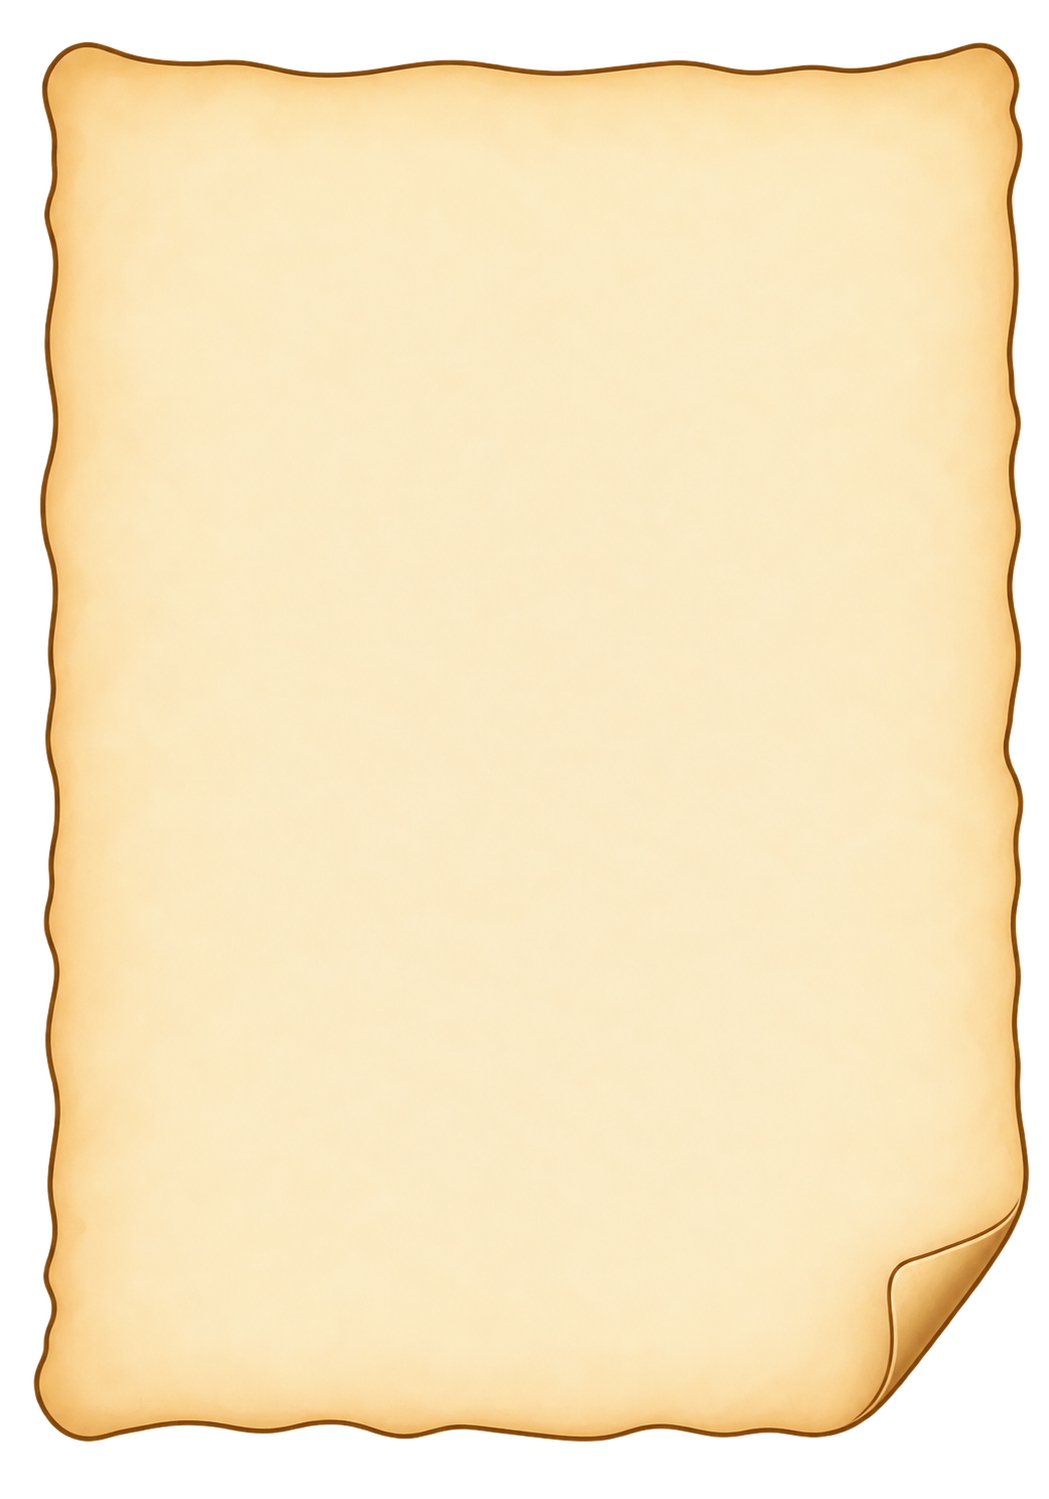
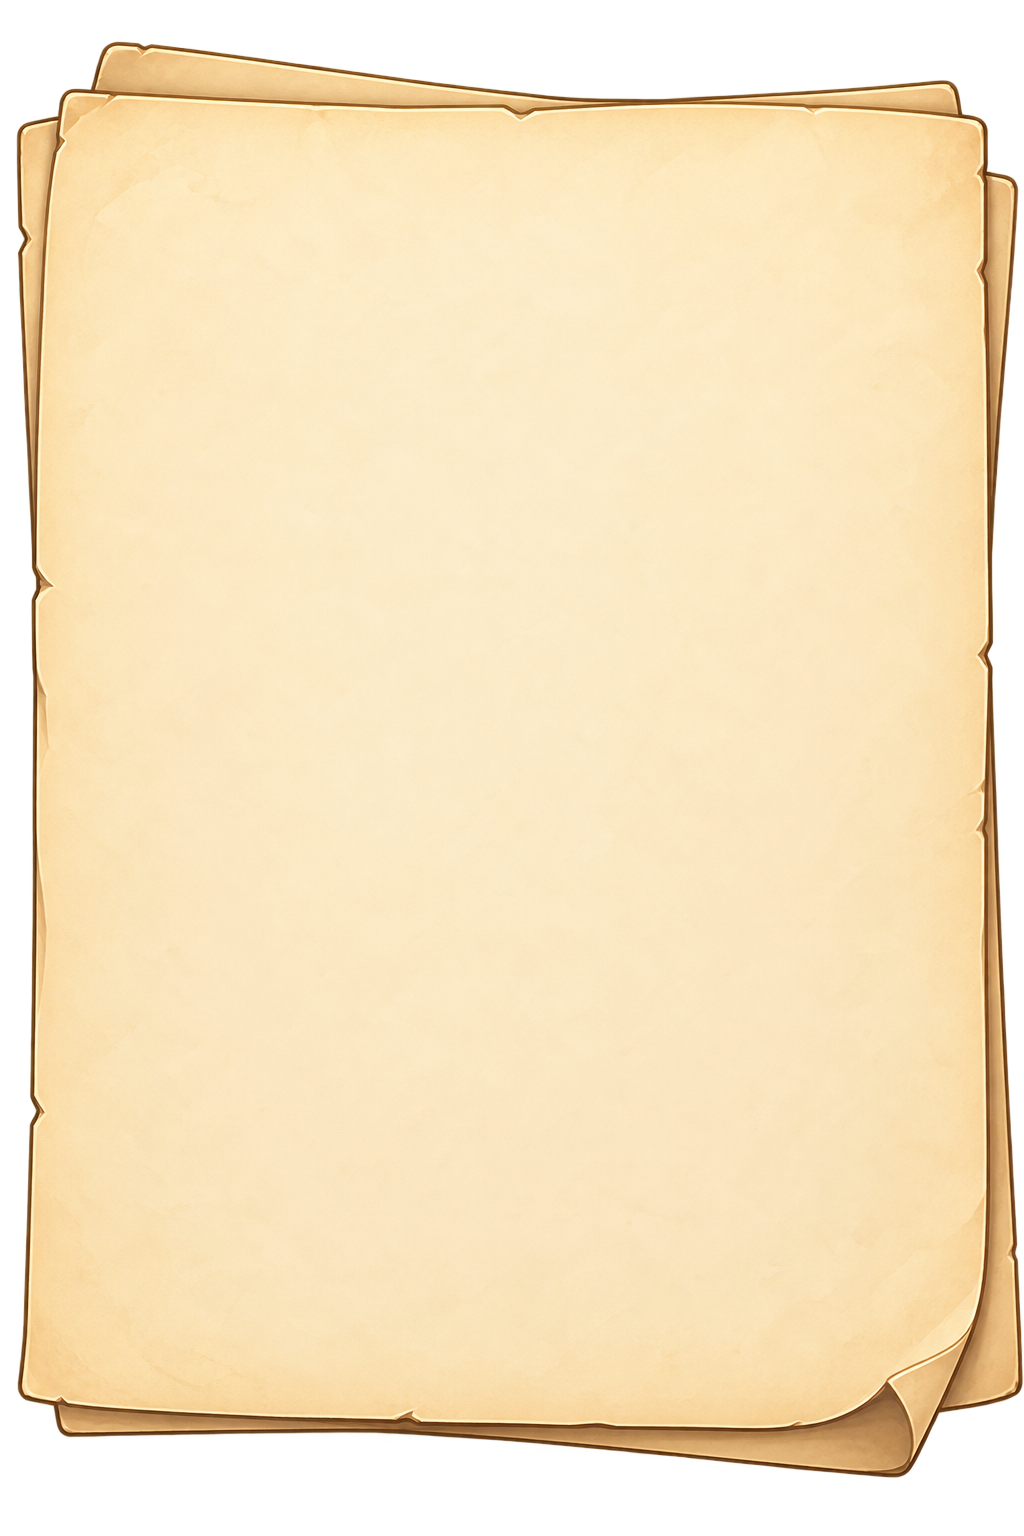
ui(research): the technology sheet drawn whole at one size; a full bar says so in the buttons' place

Changed region(s): [[0.0, 0.0307, 1.0, 0.982]]

diff --git a/src/ui/styles/screens/research.css b/src/ui/styles/screens/research.css
@@ -3,7 +3,7 @@
  *
  * Built from four reusable pieces, so a new book or a new state costs no new
  * art: the PAGE (assets/rb-page.png, nine-sliced; the stack behind it is the
- * same page twice, turned a few degrees), the loose SHEET (assets/rb-sheet.png), the BOOKMARK (assets/rb-ribbon.png,
+ * same page twice, turned a few degrees), the loose SHEET (assets/rb-sheet.png, drawn whole), the BOOKMARK (assets/rb-ribbon.png,
  * one neutral ribbon tinted per book through `--tome`), the PIN
  * (assets/rb-pin.png), and the kit's own stat tile, progress bar and buttons.
  * Every size that has to agree with the tree's geometry is set inline from
@@ -256,11 +256,11 @@
   max-height: 100%;
   overflow-y: auto;
   scrollbar-width: none;
-  /* Its own loose leaf: deckled edges and a curled lower-right corner, sliced
-     wide so the curl is never stretched. */
-  border: 14px solid transparent;
-  border-image: url('../../assets/rb-sheet.png') 96 fill / 68px stretch;
-  padding: 18px 14px 26px;
+  /* Its own loose leaf on a small stack, drawn whole at one size — as tall
+     as the tallest technology's sheet needs, so every sheet is the same. */
+  aspect-ratio: 640 / 913;
+  background: url('../../assets/rb-sheet.png') center / 100% 100% no-repeat;
+  padding: 10% 8% 12% 7.5%;
   color: var(--ink);
   filter: drop-shadow(0 6px 10px rgba(20, 10, 4, 0.35));
 }
@@ -290,6 +290,19 @@
    sides do not fit, so the price sets the width. */
 .rb-pours > .k-btn.k-btn:not(.k-knob) { width: 100%; min-width: 0; margin-bottom: 0; padding-inline: 8px; }
 .rb-pours > .k-btn.k-btn:not(.k-knob) > .k-btn-label { min-width: 0; gap: 4px; }
+/* In the pours' place once the bar is full, as tall as they are. */
+.rb-filled {
+  display: flex;
+  align-items: center;
+  justify-content: center;
+  gap: 8px;
+  min-height: calc(var(--px) * 48);
+  font-size: 15px;
+  font-weight: var(--weight-strong);
+  line-height: 1.2;
+  color: var(--leaf-dark);
+}
+.rb-filled > .icon { flex: none; --icon-size: 26px; }
 .rb-done { display: flex; align-items: center; justify-content: center; gap: 6px; margin-top: 8px;
   font-weight: var(--weight-strong); color: var(--leaf-dark); }
 .rb-sheet .up-buy.k-section { margin-top: 4px; }

diff --git a/src/ui/researchMenu.ts b/src/ui/researchMenu.ts
@@ -279,7 +279,8 @@ function card(game: Game, id: TechId, top: number, col: number): HTMLElement {
  *
  *  1. what it is — its emblem and one plain sentence; the name is the heading;
  *  2. Knowledge — the bar, and three pours with the price on the button: Gems
- *     for every point still missing, +1, and as much as the bar allows;
+ *     for every point still missing, +1, and as much as the bar allows; once
+ *     it is full, a line saying so in their place;
  *  3. research — the Gold above the button, and the button.
  *
  * A technology whose requirements are not met shows part 1 and its
@@ -331,8 +332,10 @@ function techSheet(game: Game, id: TechId): HTMLElement {
       page.append(el('div', { class: 'rb-rule', 'aria-hidden': 'true' }),
         el('div', { class: 'rb-knowledge' },
           bar.root,
-          // Once the Knowledge is in there is nothing left to pour.
-          ...(pours.missing === 0 ? [] : [el('div', { class: 'rb-pours' },
+          // Once the Knowledge is in there is nothing left to pour: a line in
+          // the buttons' place, as tall as they are, so the sheet keeps its size.
+          ...(pours.missing === 0 ? [el('div', { class: 'rb-filled' },
+            iconEl('tick'), el('span', {}, 'All its Knowledge is in — it is ready to research'))] : [el('div', { class: 'rb-pours' },
             btn({
               label: formatExact(pours.gems),
               icon: 'Gems',

diff --git a/Docs/features/07-research.md b/Docs/features/07-research.md
@@ -429,9 +429,10 @@ minute. Each is in one of three states:
 
 ### 5.4 The technology's sheet
 
-**A loose research page** over the dimmed book — the same parchment, one pin
-at its top, the name as its heading, a close knob in its corner; the scrim
-closes it too. It reads top to bottom in three parts, never numbered:
+**A loose research page** over the dimmed book — a small stack of parchment,
+one pin at its top, the name as its heading, a close knob in its corner; the
+scrim closes it too. **Every sheet is the same size**: as tall as the tallest
+technology's needs, whatever state it is in. It reads top to bottom in three parts, never numbered:
 
 1. **What it is** — the emblem in a framed square and one plain sentence of
    what it unlocks or does (§1). A minor rank's sentence carries its numbers.
@@ -441,7 +442,9 @@ closes it too. It reads top to bottom in three parts, never numbered:
    - **+1** — one point from the bar;
    - **+N** — as much as it can: the least of what the bar holds and what is
      missing.
-   Once the Knowledge is in, the buttons go and the full bar stays.
+   Once the Knowledge is in, the full bar stays and a line takes the buttons'
+   place, as tall as they are: *All its Knowledge is in — it is ready to
+   research*.
 3. **Research** — the upgrade popup's block: the Gold above a wide
    **Research** button, which is locked with *Assign all its Knowledge to
    research it* under it until the bar is full. It researches on the press,

diff --git a/Docs/art/ui/CONVERSATION.md b/Docs/art/ui/CONVERSATION.md
@@ -838,3 +838,16 @@ for.
 - **What to know:** both came back true alpha without asking for a correction.
   The sheet's wide corner slices are what keep the curl from stretching when a
   locked technology's sheet is short.
+
+## B3 — the technology sheet, drawn whole
+
+- **Date:** 2026-09-29
+- **Conversation:** `6abbfd0e-ae5c-83eb-bbae-f1027593b113`, continued; the
+  M46 sheet cropped from the mockup attached as the reference.
+- **Why:** B2's nine-sliced leaf read worse than M46's. The sheet never needs
+  to change size, so it is asked for whole: empty, a small stack, the curl.
+- **Files:** `sheets/rb-sheet-raw.png` (1024×1536) → `src/ui/assets/rb-sheet.png`
+  (the alpha box, 640×913), drawn at its own ratio across the sheet's width —
+  359×512 on a 375pt phone, which fits the tallest technology's sheet exactly.
+- **What to know:** the prompt said "NOT for nine-slicing … EMPTY" and it came
+  back true alpha with nothing painted on it.
